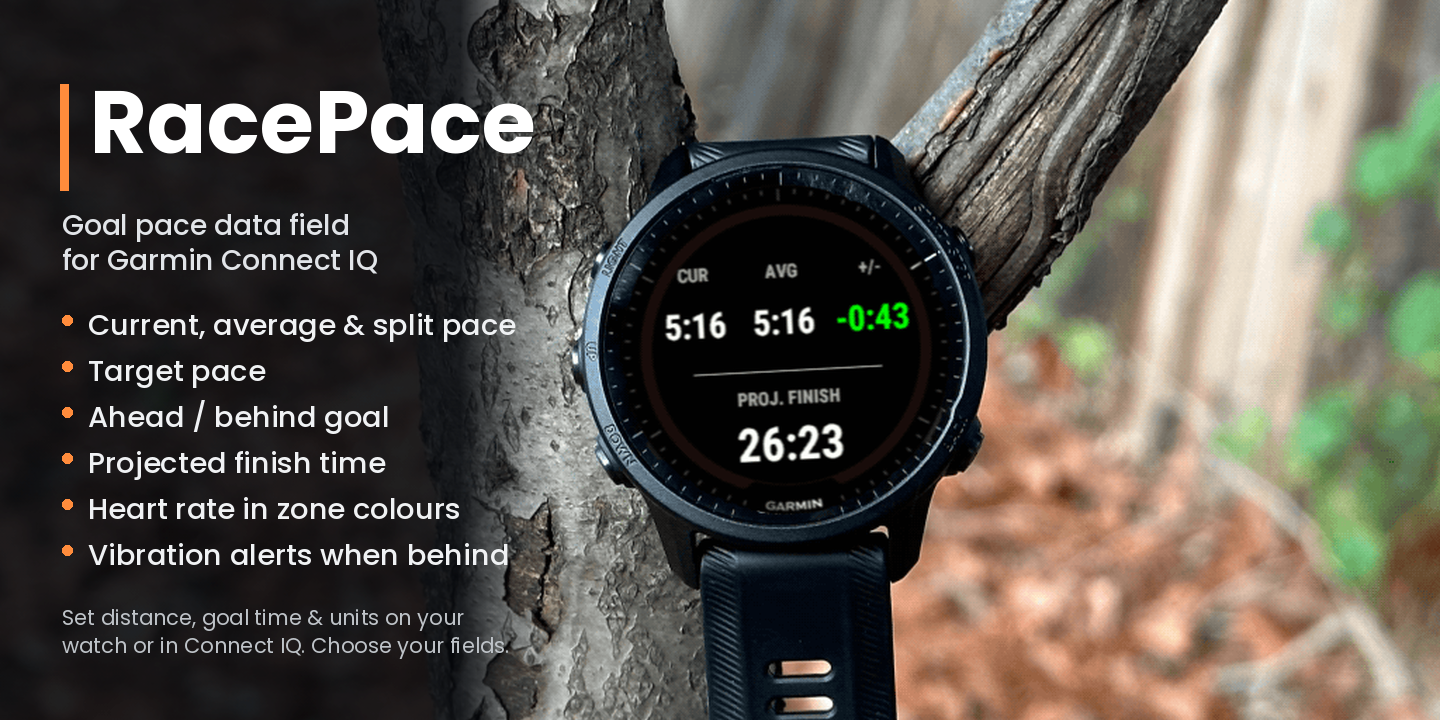
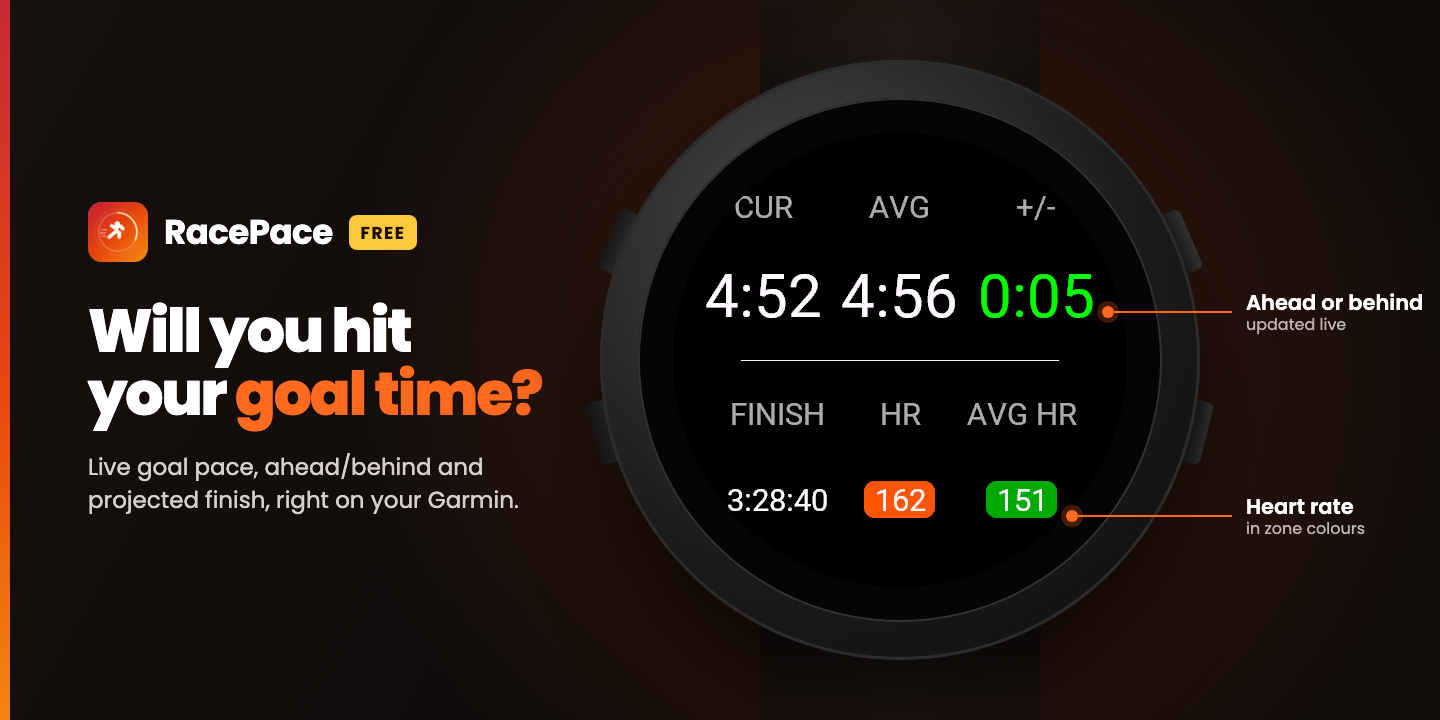
Updated hero

diff --git a/README.md b/README.md
@@ -1,4 +1,4 @@
-<img src="resources/images/hero.png" alt="RacePace — a Garmin watch showing current pace, target pace, ahead/behind delta, and projected finish time">
+<img src="resources/images/hero.png" alt="RacePace, free goal pace data field for Garmin: a watch showing current and average pace, 5 seconds ahead of goal pace, a projected 3:28:40 marathon finish, and heart rate in zone colours">
 
 # RacePace
 
